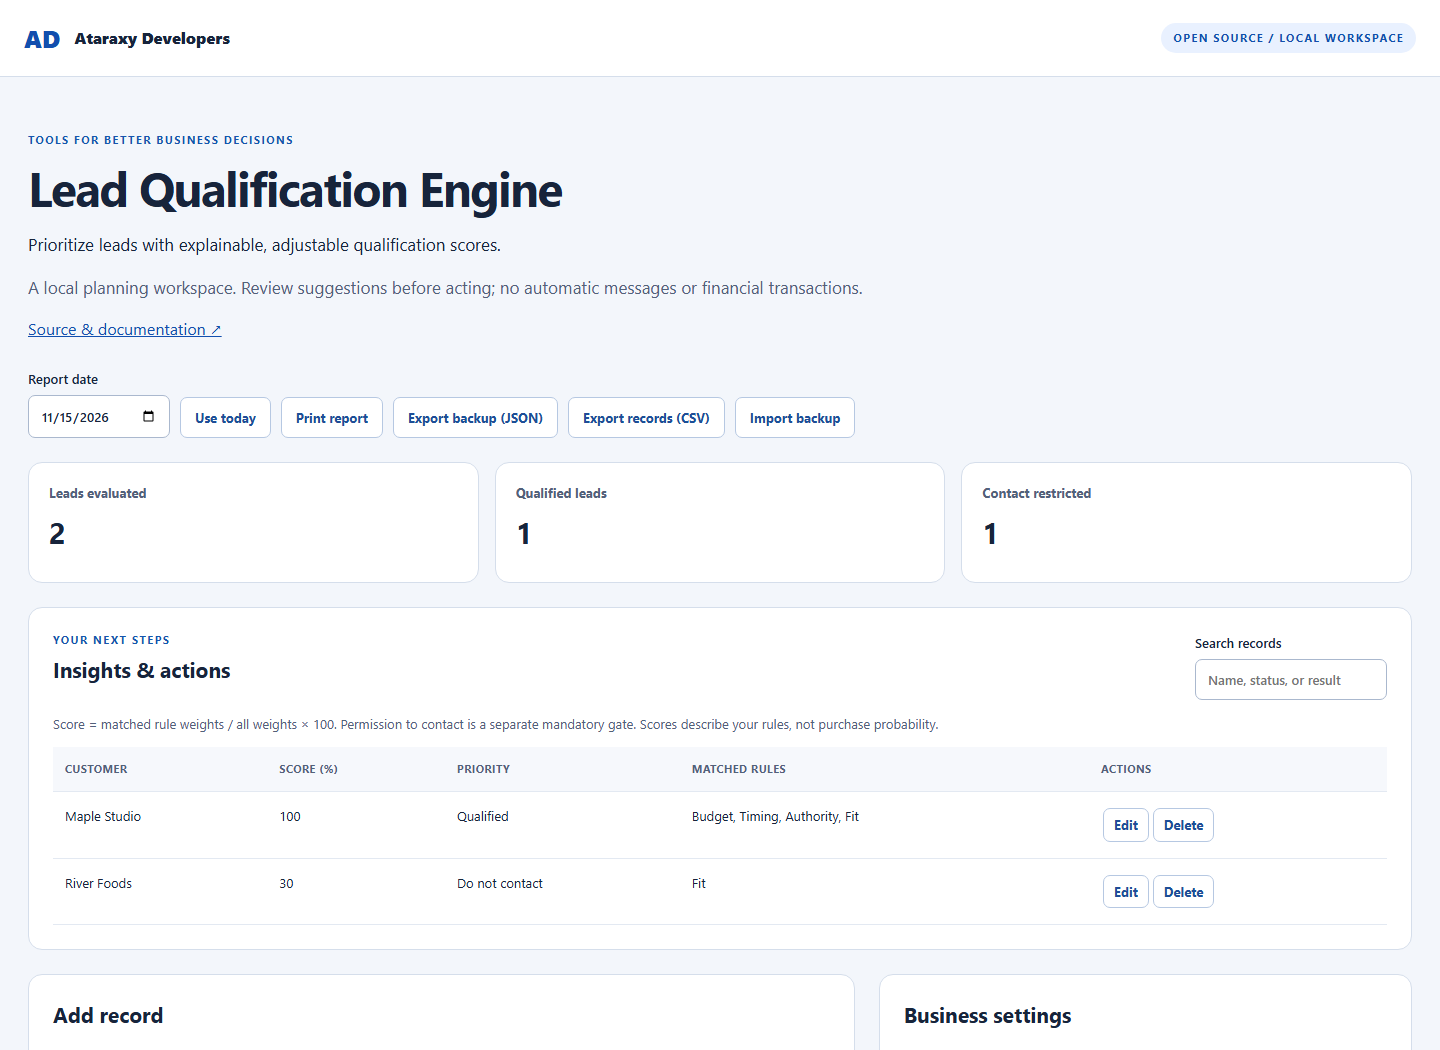
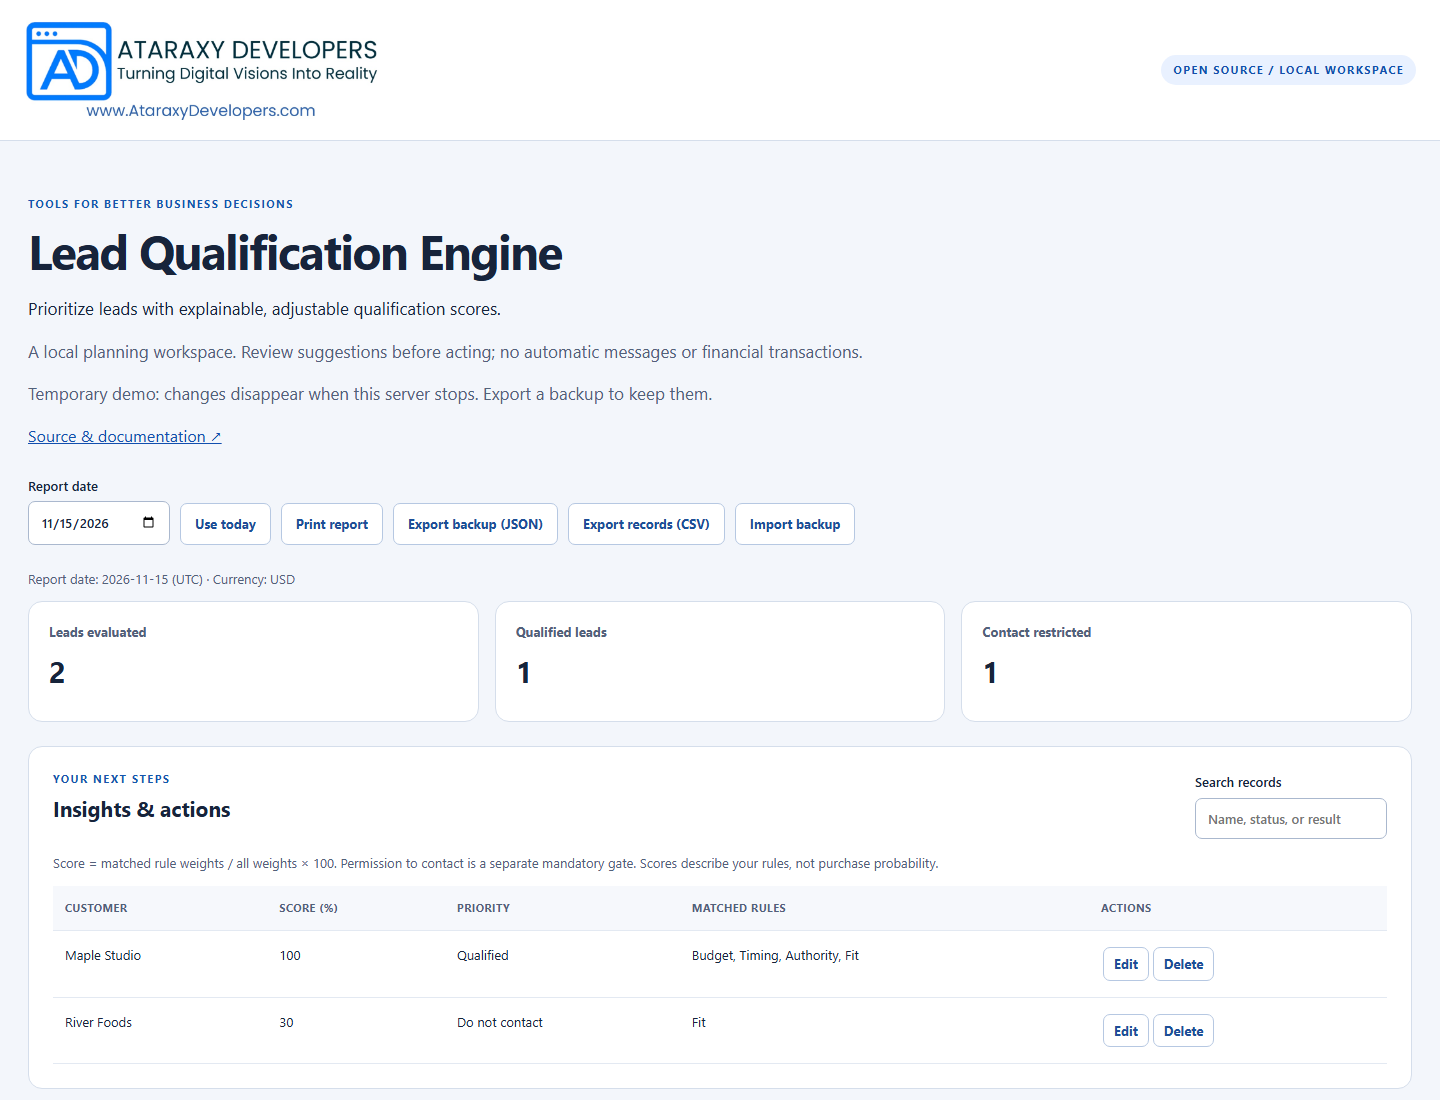
Use approved Ataraxy Developers branding

diff --git a/public/index.html b/public/index.html
@@ -4,16 +4,14 @@
     <meta charset="utf-8" />
     <meta name="viewport" content="width=device-width,initial-scale=1" />
     <title>Business workspace · Ataraxy Developers</title>
-    <link rel="icon" href="/favicon.svg" />
+    <link rel="icon" href="/ataraxy-developers-logo.png" type="image/png" />
     <link rel="stylesheet" href="/style.css" />
     <script type="module" src="/app.js"></script>
   </head>
   <body>
     <a class="skip" href="#main">Skip to workspace</a>
     <header>
-      <a class="brand" href="https://ataraxydevelopers.com"
-        >AD <span>Ataraxy Developers</span></a
-      ><span class="badge">OPEN SOURCE / LOCAL WORKSPACE</span>
+      <a class="brand" href="https://ataraxydevelopers.com"><img src="/ataraxy-developers-logo.png" alt="Ataraxy Developers — Turning Digital Visions Into Reality" width="1127" height="313" /></a><span class="badge">OPEN SOURCE / LOCAL WORKSPACE</span>
     </header>
     <main id="main">
       <section class="hero">

diff --git a/public/style.css b/public/style.css
@@ -40,10 +40,6 @@ header {
   font-weight: 800;
   text-decoration: none;
 }
-.brand span {
-  font-size: 16px;
-  color: #17243b;
-}
 .badge,
 .eyebrow {
   font-size: 11px;
@@ -364,3 +360,9 @@ footer {
     font-size: 27px;
   }
 }
+
+/* Use the complete, original company artwork without distortion. */
+header { flex-wrap: wrap; gap: 16px; background: #fff; }
+.brand { display: block; flex: 0 1 360px; min-width: 0; max-width: 100%; background: #fff; }
+.brand img { display: block; width: 360px; max-width: 100%; height: auto; }
+@media (max-width: 600px) { header { padding: 18px 20px; } .brand { flex-basis: 360px; } }

diff --git a/BRANDING.md b/BRANDING.md
@@ -1,0 +1,10 @@
+# Ataraxy Developers branding
+
+The company-approved logo is [public/ataraxy-developers-logo.png](public/ataraxy-developers-logo.png). It is the original PNG supplied by Ataraxy Developers on 2026-11-16, unchanged.
+
+- Preserve the complete artwork, its aspect ratio, and its white background.
+- Do not redraw it or substitute typed initials, an invented monogram, or generated artwork.
+- Use readable sizing and descriptive alternative text.
+- Capture screenshots from the working interface after this logo has loaded.
+
+SHA-256: 87ebc5a0092af0fff4524e805730ca3dc97c4483bd49f866528b8cdb97d422e7

diff --git a/README.md b/README.md
@@ -1,3 +1,5 @@
+<p><a href="https://ataraxydevelopers.com"><img src="public/ataraxy-developers-logo.png" alt="Ataraxy Developers — Turning Digital Visions Into Reality" width="520"></a></p>
+
 # Lead Qualification Engine
 
 [![CI](https://github.com/AtaraxyDevelopers/lead-qualification-engine/actions/workflows/ci.yml/badge.svg)](https://github.com/AtaraxyDevelopers/lead-qualification-engine/actions/workflows/ci.yml)

diff --git a/CHANGELOG.md b/CHANGELOG.md
@@ -1,5 +1,9 @@
 # Changelog
 
+## 0.1.2 — 2026-11-16
+
+Use the original, approved Ataraxy Developers logo and document its source. Update the interface and browser icon, serve the PNG correctly, and replace the README screenshot with a capture of the corrected app.
+
 ## 0.1.1
 
 - Correct optional date defaults when adding records.
